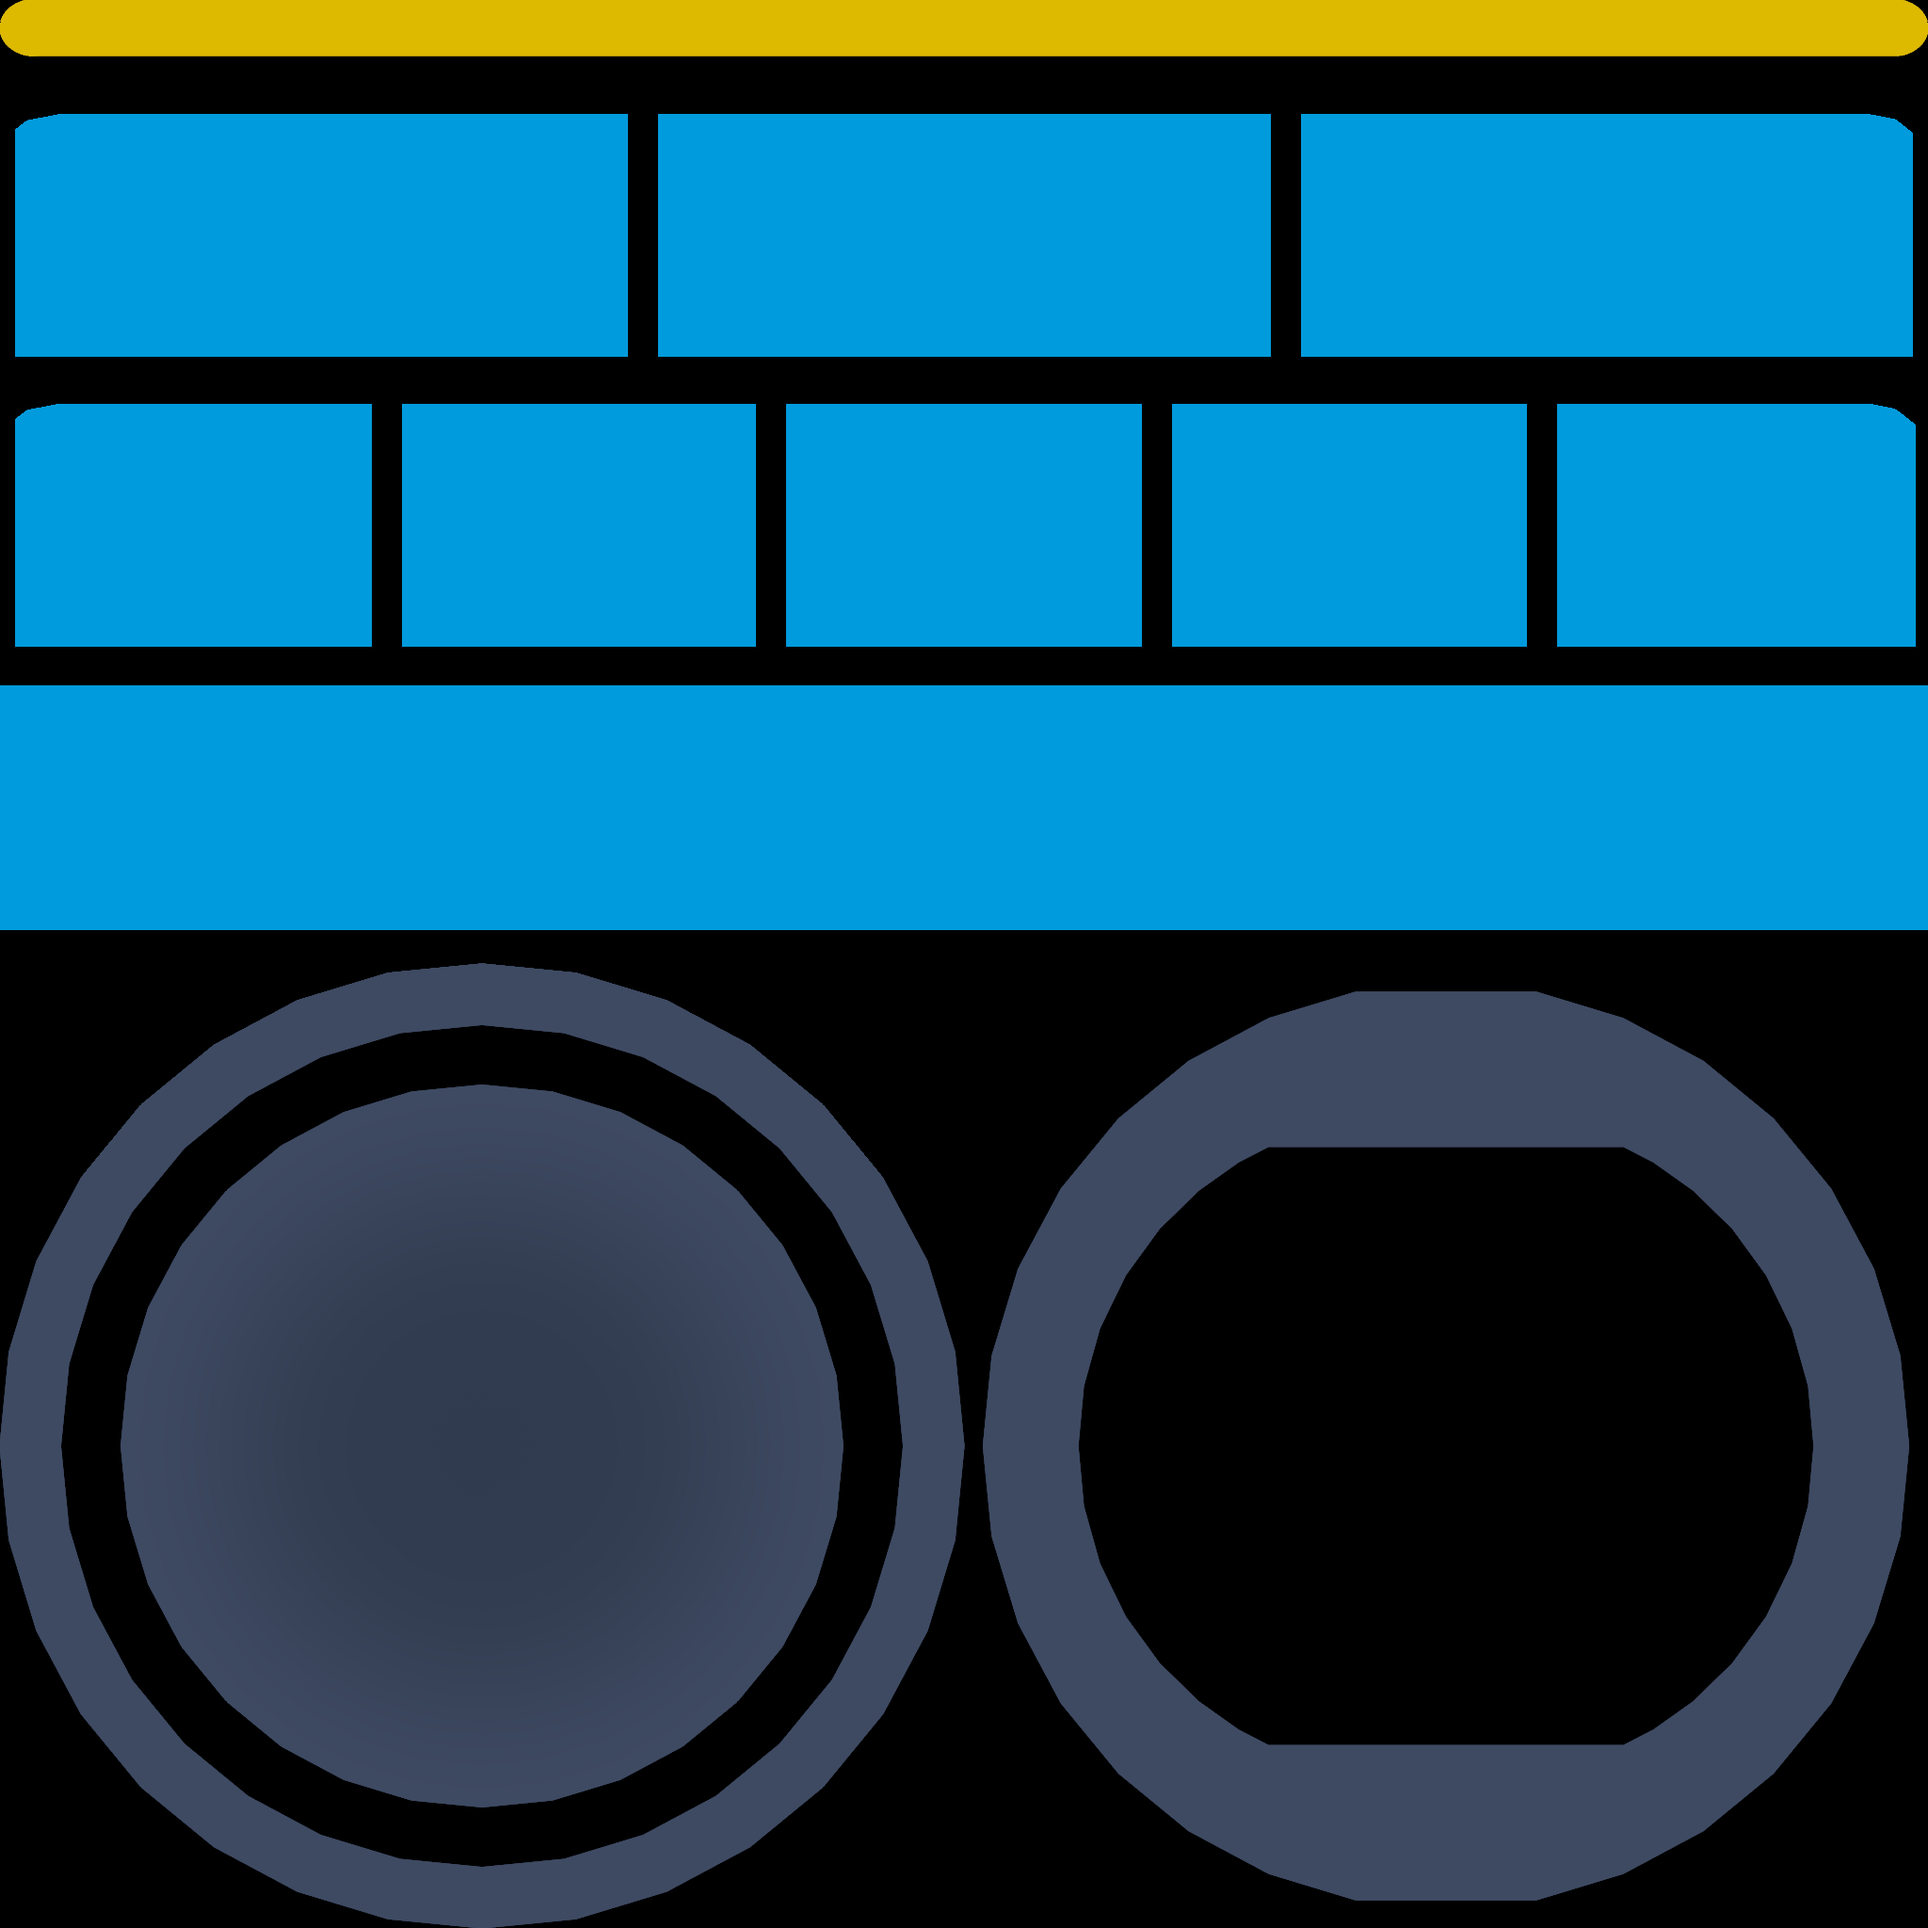
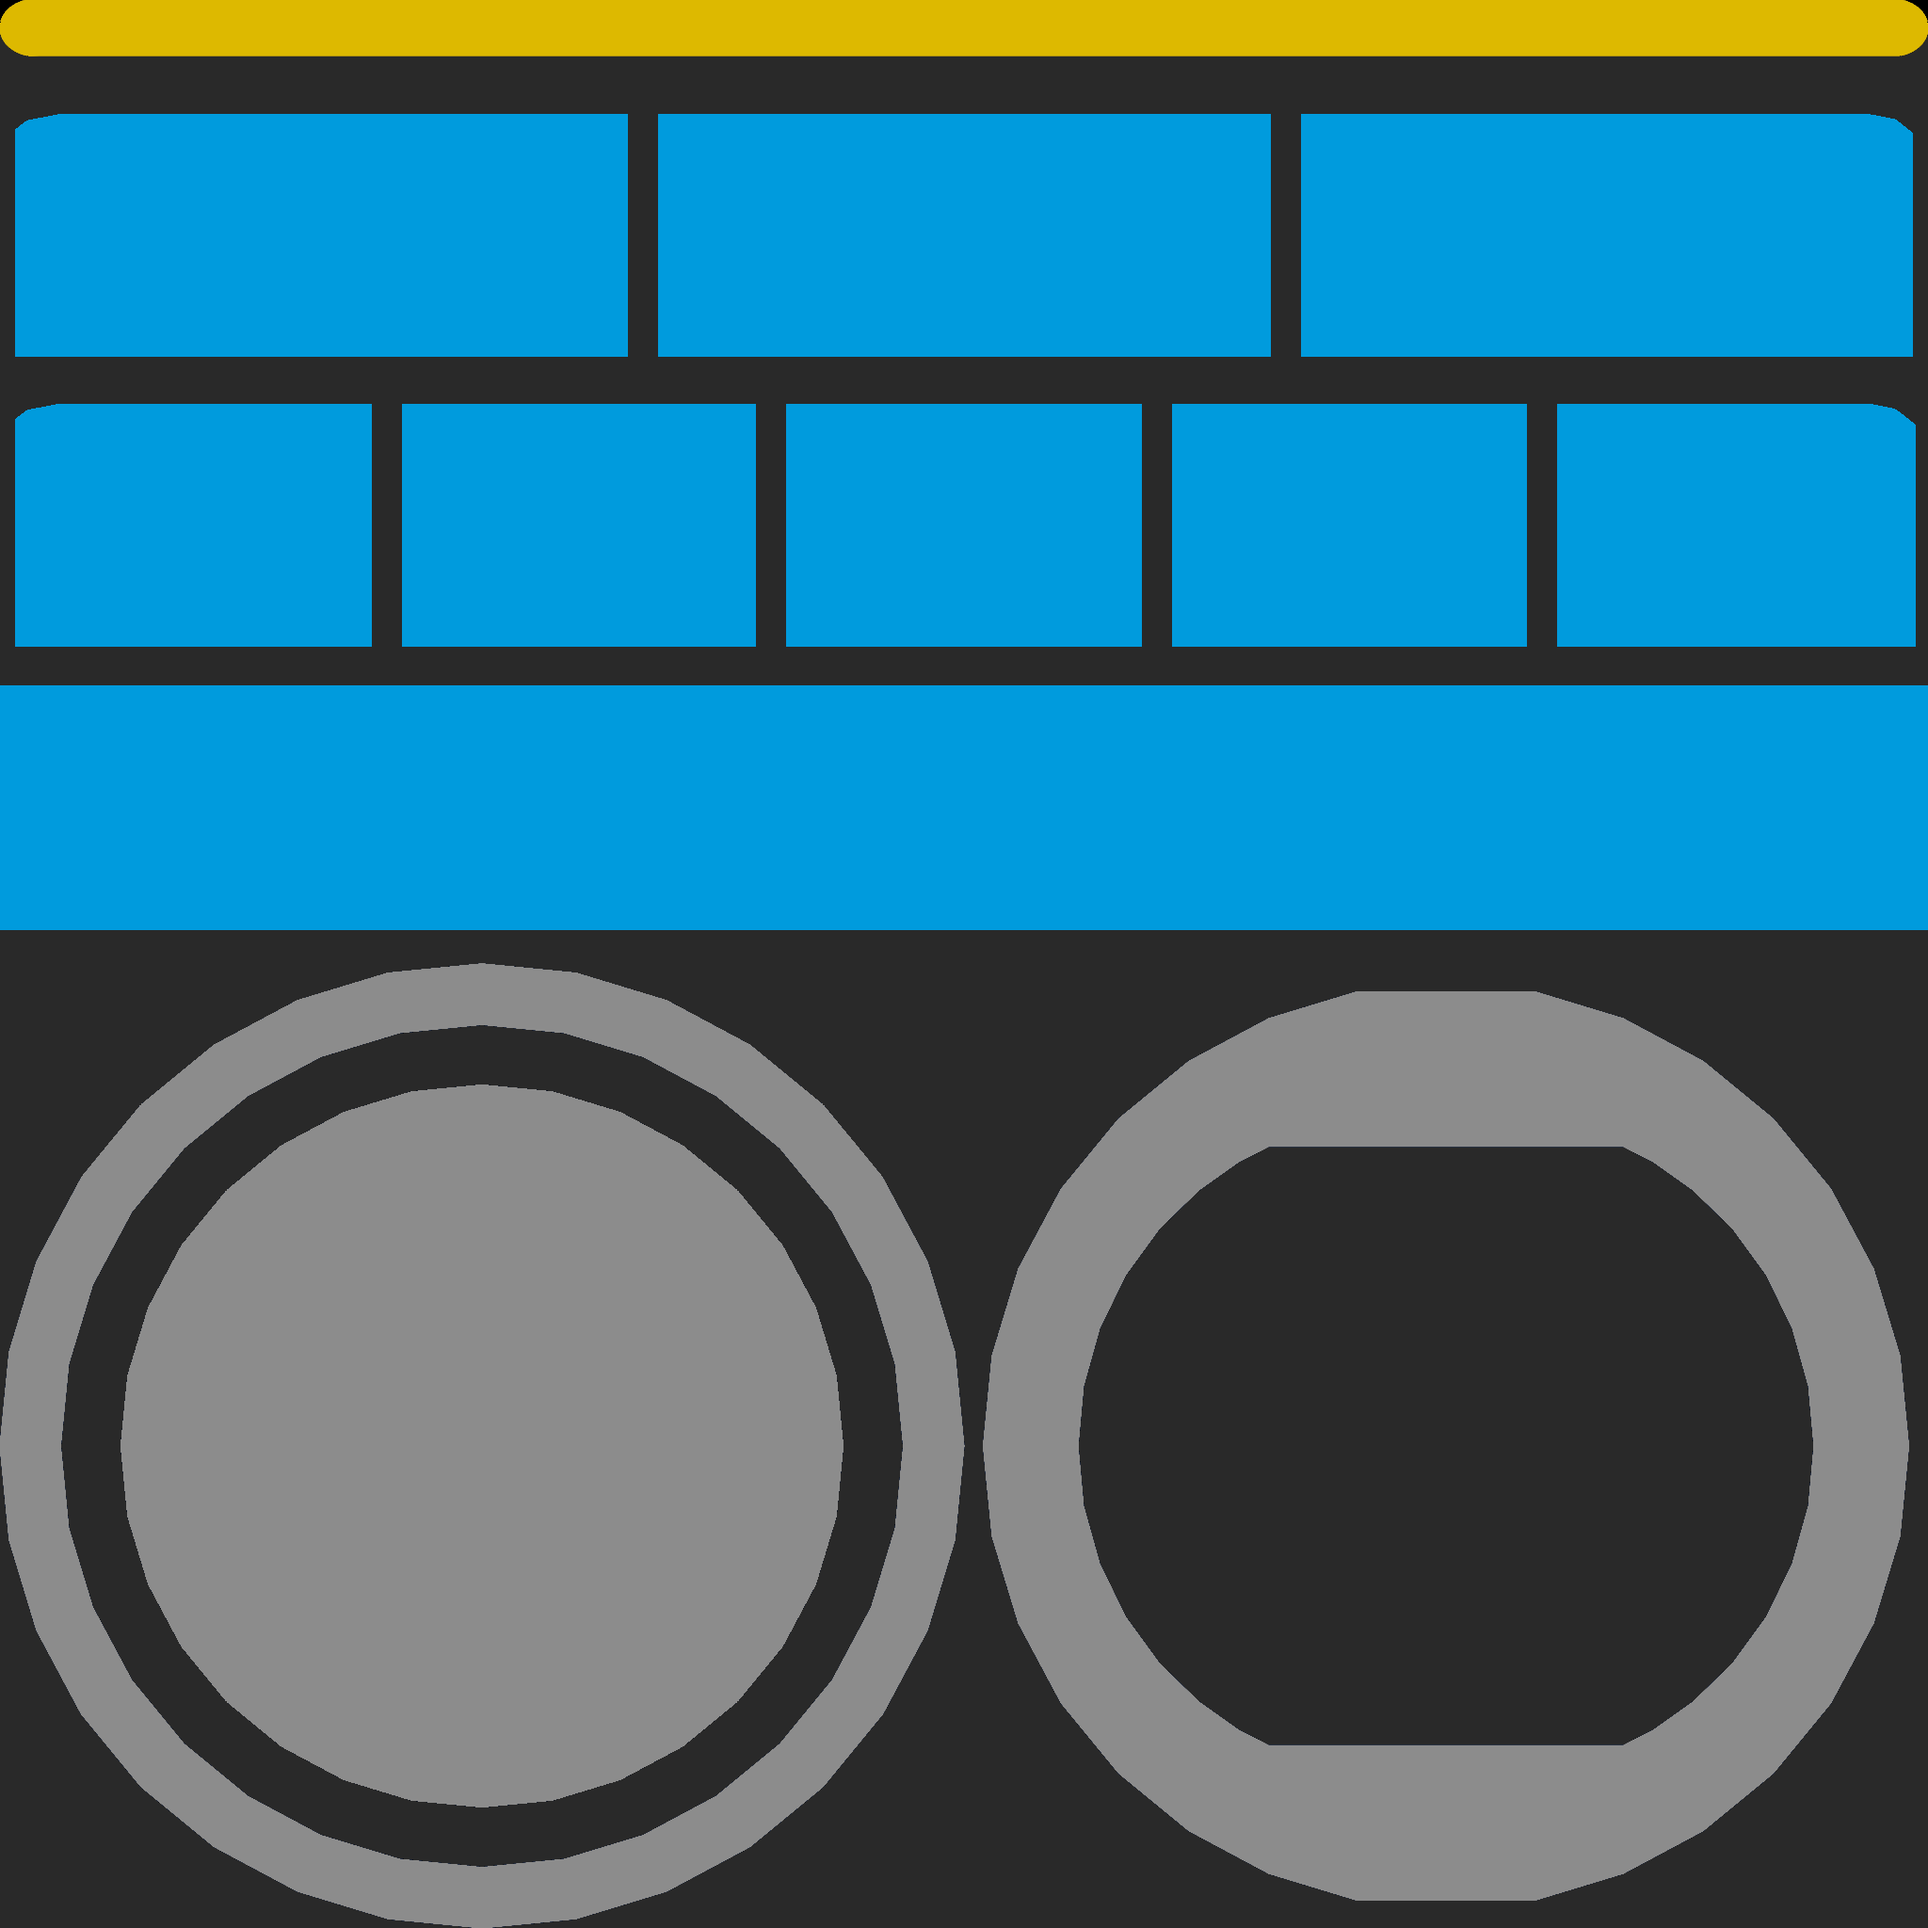
change some colors for the od bar

diff --git a/Encore/include/game/assets.h b/Encore/include/game/assets.h
@@ -7,9 +7,9 @@ player player;
 
 class Assets {
 private:
-	Texture2D LoadTextureFilter(std::filesystem::path texturePath) {
+	static Texture2D LoadTextureFilter(const std::filesystem::path& texturePath) {
 		Texture2D tex = LoadTexture(texturePath.string().c_str());
-		SetTextureFilter(tex, TEXTURE_FILTER_ANISOTROPIC_16X);
+		SetTextureFilter(tex, TEXTURE_FILTER_TRILINEAR);
 		return tex;
 	}
 public:
@@ -112,11 +112,17 @@ public:
 		odMultShader = LoadShader(0, "Assets/ui/odmult.fs");
 		multNumberShader = LoadShader(0, "Assets/ui/multnumber.fs");
 		odFrame.materials[0].maps[MATERIAL_MAP_ALBEDO].texture = odMultFrame;
+        odFrame.materials[0].maps[MATERIAL_MAP_ALBEDO].color = player.accentColor;
 		odBar.materials[0].maps[MATERIAL_MAP_ALBEDO].texture = odMultFrame;
+        odBar.materials[0].maps[MATERIAL_MAP_ALBEDO].color = player.accentColor;
 		multFrame.materials[0].maps[MATERIAL_MAP_ALBEDO].texture = odMultFrame;
+        multFrame.materials[0].maps[MATERIAL_MAP_ALBEDO].color = player.accentColor;
 		multBar.materials[0].maps[MATERIAL_MAP_ALBEDO].texture = odMultFrame;
+        multBar.materials[0].maps[MATERIAL_MAP_ALBEDO].color = player.accentColor;
 		multCtr3.materials[0].maps[MATERIAL_MAP_ALBEDO].texture = odMultFrame;
+        multCtr3.materials[0].maps[MATERIAL_MAP_ALBEDO].color = player.accentColor;
 		multCtr5.materials[0].maps[MATERIAL_MAP_ALBEDO].texture = odMultFrame;
+        multCtr5.materials[0].maps[MATERIAL_MAP_ALBEDO].color = player.accentColor;
 		odBar.materials[0].maps[MATERIAL_MAP_EMISSION].texture = odMultFill;
 		multBar.materials[0].maps[MATERIAL_MAP_EMISSION].texture = odMultFill;
 		multCtr3.materials[0].maps[MATERIAL_MAP_EMISSION].texture = odMultFill;
@@ -168,12 +174,15 @@ public:
 		liftModelOD.materials[0].maps[MATERIAL_MAP_ALBEDO].color = WHITE;
 
         icon = LoadImage((directory / "Assets/encore_favicon-NEW.png").string().c_str());
-        encoreWhiteLogo = LoadTexture((directory / "Assets/encore-white.png").string().c_str());
-        songBackground = LoadTexture((directory / "Assets/background.png").string().c_str());
+        encoreWhiteLogo = LoadTextureFilter((directory / "Assets/encore-white.png"));
+        songBackground = LoadTextureFilter((directory / "Assets/background.png"));
 
         redHatDisplayItalic = LoadFontEx((directory/"Assets/fonts/RedHatDisplay-BlackItalic.ttf").string().c_str(), 48,0,0);
+        SetTextureFilter(redHatDisplayItalic.texture, TEXTURE_FILTER_TRILINEAR);
 		rubik = LoadFontEx((directory / "Assets/fonts/Rubik-Regular.ttf").string().c_str(), 100, 0, 0);
+        SetTextureFilter(rubik.texture, TEXTURE_FILTER_TRILINEAR);
         rubik32 = LoadFontEx((directory / "Assets/fonts/Rubik-Regular.ttf").string().c_str(), 32, 0, 0);
+        SetTextureFilter(rubik32.texture, TEXTURE_FILTER_TRILINEAR);
 		//clapOD = LoadSound((directory / "Assets/highway/clap.ogg").string().c_str());
 		//SetSoundVolume(clapOD, 0.375);
 	}

diff --git a/Encore/include/song/song.h b/Encore/include/song/song.h
@@ -264,10 +264,11 @@ public:
 				std::string artPath = (jsonPath.parent_path() / document["art"].GetString()).string();
 				Image albumImage = LoadImage(artPath.c_str());
 
-				if (albumImage.height > 512) 
-					ImageResize(&albumImage, 512, 512);
-
+				if (albumImage.height > 512) {
+                    ImageResize(&albumImage, 512, 512);
+                }
 				albumArt = LoadTextureFromImage(albumImage);
+                SetTextureFilter(albumArt, TEXTURE_FILTER_ANISOTROPIC_16X);
 				UnloadImage(albumImage);
 			}
 		}
